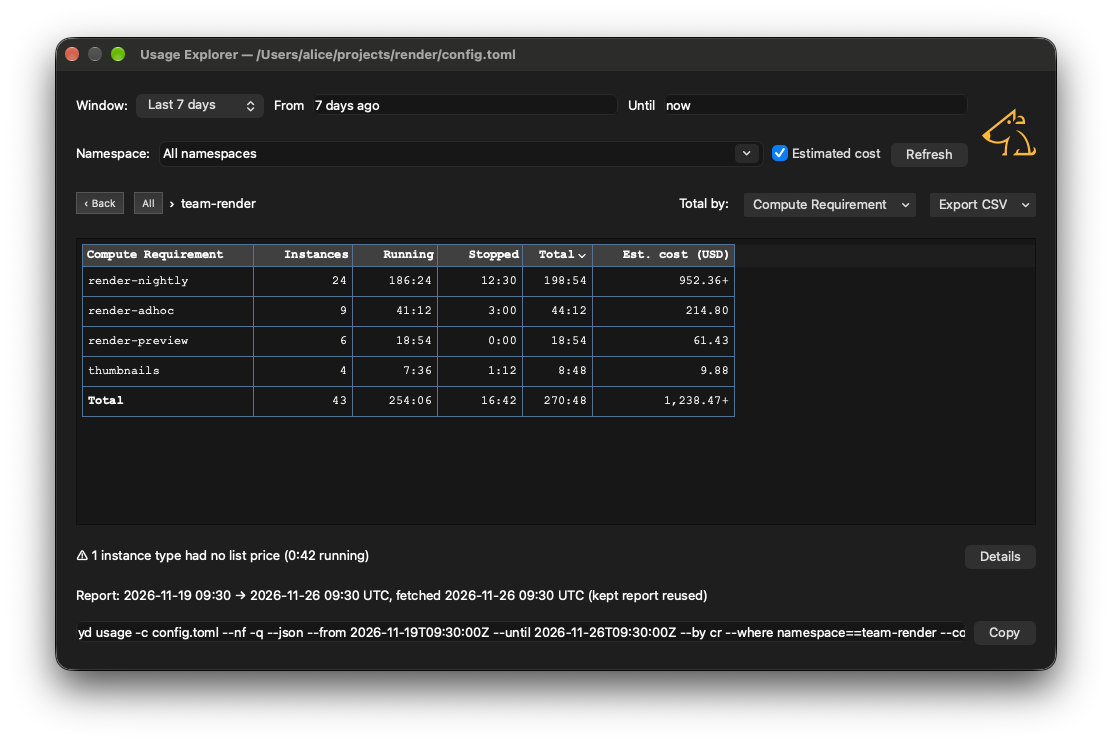
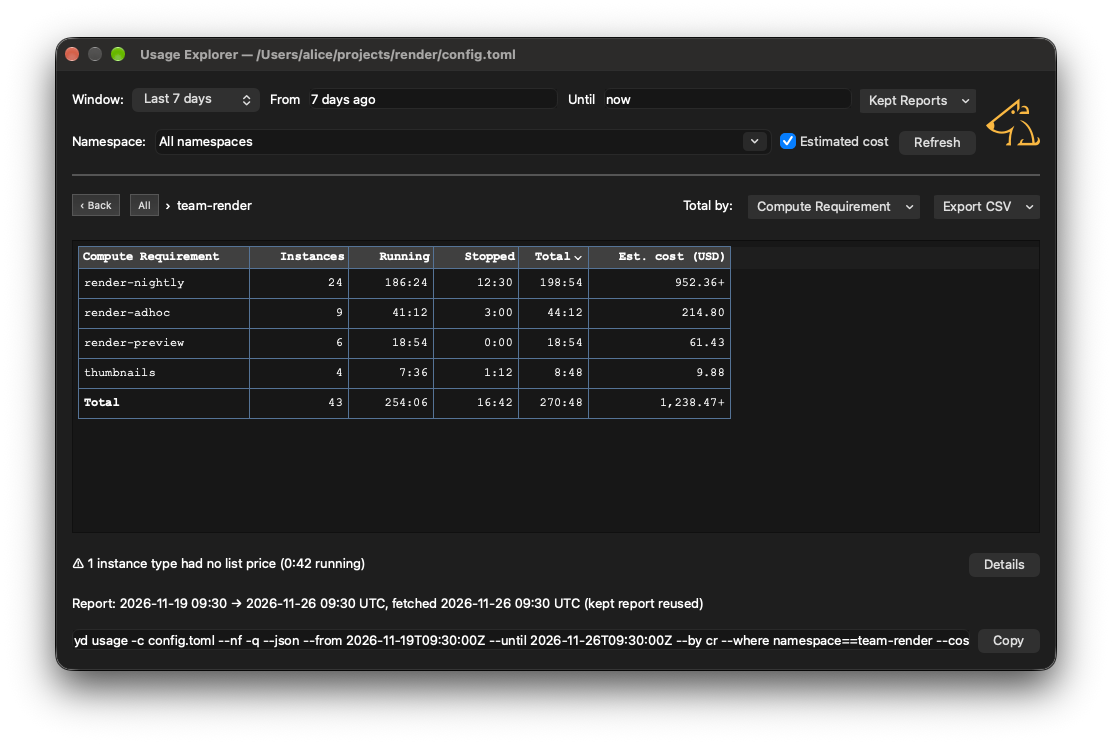
Usage Explorer: maximisable on Windows, new screenshot
- Minimise and maximise buttons on the explorer's title bar (a dialog
  on Windows has a close button alone)
- README screenshot retaken with the compact controls and Kept Reports

diff --git a/tests/test_commander_usage_explorer.py b/tests/test_commander_usage_explorer.py
@@ -1262,6 +1262,13 @@ def test_a_rule_sets_the_scope_controls_apart(explorer):
     assert explorer._separator.styleSheet() == ""
 
 
+def test_the_window_can_be_maximised_and_minimised(explorer):
+    flags = explorer.windowFlags()
+    assert flags & Qt.WindowType.WindowMaximizeButtonHint
+    assert flags & Qt.WindowType.WindowMinimizeButtonHint
+    assert flags & Qt.WindowType.WindowCloseButtonHint
+
+
 def test_the_dog_is_shown_at_the_top_right(explorer):
     branding = explorer._branding
     pixmap = branding.pixmap()

diff --git a/yellowdog_cli/commander/usage_explorer.py b/yellowdog_cli/commander/usage_explorer.py
@@ -687,6 +687,9 @@ class UsageExplorer(QDialog):
         self.setWindowTitle(title)
         self.setAttribute(Qt.WidgetAttribute.WA_DeleteOnClose)
         self.setModal(False)
+        # A dialog on Windows has a close button alone: a window of this
+        # size wants maximising and minimising as any other does
+        self.setWindowFlag(Qt.WindowType.WindowMinMaxButtonsHint)
         self._base_args = base_args
         self._working_dir = working_dir
         # The export's save dialog, Commander's own

diff --git a/.claude/rules/commander.md b/.claude/rules/commander.md
@@ -54,7 +54,7 @@ paths:
 - **Stop is one command's, without blocking; Quit's stopping is everything's, and waits.** `OutputPane` keeps each command's `QProcess` by run (`_run_processes`, from `attach()`), and the right-click menu offers `OutputRun.stop_text` for each run of the clicked line still running and not already stopping (`_stoppable_runs()`). `stop_run()` sets `OutputRun.stop_requested`, logs `Stopping <process>` as an announcement (the command's and Commander's, as the `Executing:` line is), calls `terminate()`, and queues a `kill()` for `TERMINATE_TIMEOUT_MS` later (`processes.py`, shared with Quit's `_stop_process()`); it neither waits, which would freeze the window for the grace period, nor disconnects the output handlers, as `_stop_process()` does for a teardown, so the command's last output arrives and `_record_outcome()` records `stopped` (`stop_requested` first, since a terminated process looks crashed). A non-`yd` command runs under the shell, whose children a stop does not reach; the README says so. A test's marker must not appear in the child's command line, or the echoing `Executing:` line satisfies the wait before the child has run (`tests/test_commander_stop.py` joins it at run time).
 - **A dialog list is created with a parent, or it is sized 2px short on macOS.** `_new_dialog_listing()` builds every dialog `QListWidget` as `QListWidget(self)`, although the dialog's layout reparents it straight away, because `_fit_dialog_listing_height()` fixes its height from `frameWidth()` and the macOS style reports 6 for a widget with no parent (a prospective window) against 7 once it is inside one. Built unparented, a list shows a scrollbar and clips its last row (a 58px viewport for three 20px rows). Offscreen reports 7 either way, so no test can see this; it is measured on the real platform.
 - **The Help window is the package's own `README.md`**, so the guide on GitHub and the one in the application are a single file and the latter matches the installed version; `pyproject.toml` lists it as package data for that reason, and `tests/test_commander_help.py` checks the declaration, since with `include-package-data = false` a missed file is simply absent from the wheel. `HelpDialog` (`help_viewer.py`) is modeless and the window keeps one (`_help_dialog`), raising it again so the reader keeps their place, made with no parent and closed by `shutdown()`, as the file viewers are; the Help button, F1 and the platform's `HelpContents` key all open it. Qt's Markdown importer needs four corrections, all in `build_help_document()`: headings get no anchor names, so each is given the one GitHub derives from its text (`heading_anchor()`) — which is what the README's `[...](#section)` links are written against, and a test fails if any of them has no heading to land on, so renaming a heading means fixing the links to it; fenced code blocks come out unshaded and headings with no space around them; every list item is spaced like a paragraph, which spreads the README's table of contents over two screens, so an item that is nothing but a link to a section (`section_link_item()`) is drawn tight, with a disc rather than the hollow bullet `*` gets, while prose lists keep their spacing; and a screenshot shows at natural size, cut off, so each is dropped. The table of contents is `gh-md-toc`'s, generated by `make toc_commander` with `--skip-header`, since an entry for the page's own title would push every real section down a level; like any section link, a stale entry fails the link test. The document is *set* on the browser rather than loaded, which leaves it no source for history to return to, so `setSource(QUrl("#"))` gives it one — without it Back never enables. The Help and Usage Explorer... buttons sit in the bottom row, `horizontalLayout_9`, which on macOS is 834px and so the widest row of its column, setting the window's minimum width (1206px measured as the window's minimum size hint, which `geometry` and `minimumSize`, 1206/1195, allow for); a button in the utility row would widen `horizontalLayout_4` (717px) instead, which is narrower than the bottom row.
-- **The Usage Explorer is a modeless window over `yd usage --json`, and Commander groups and adds up nothing in it.** `UsageExplorer` (`usage_explorer.py`) runs each view through `UsageRunner`, one `QProcess` per request started at once through `cli_program()` and `child_process()`, not `_capture_json_document()`, which blocks in a nested loop and drops stderr: only the latest request's result is emitted (an older run is left to finish, as it may be fetching the report the next view reuses, and its result discarded), and only `stop()` ends a run (exit code -1, `Stopped`). `usage_views.py` (Qt-free) builds the arguments (`view_args()`, `drill()`, `preset_window()`) and `usage_table.py` is the table model. A new scope is never fetched by a control: opening, `reset()` and a changed Window, From, Until or Namespace call `_await_fetch()`, which dims the table under **Fetch Report** (`_fetch_overlay`, a `_TableOverlay` as the waiting one is) while the controls name a report other than the one shown (`_pending`); its button, Cmd/Ctrl+R and **Refresh** run `_resolve()`, and `_busy` (`_resolving` or `_pending`) holds the view actions back. The window is pinned: a new scope's first run (`_resolving`) is sent as typed, and the success pins the scope to the document's own `from` and `until` (`Scope.pinned_to()`), so every later view regroups that kept report; drill-downs filter with `--where key==value`, a creator by `creator-id`. A `Level` totals by a tuple of keys (`--by a,b`) and holds the filters its drill gave it, one per key of the row drilled into (`drill()`), its crumb their values joined by `KEY_VALUE_SEPARATOR`; **Total by** is a menu of ticks over `eligible_keys()` (those no filter above fixes), `toggled_by()` adding a key after the others or removing one (never the last), the Instance level (`INSTANCE_LEVEL`) replacing the rest. While a first run is outstanding, drilling, sorting, Back, the crumbs and Total by wait; a failed or stopped one puts the controls back (`_first_run_failed()`). The base arguments (`_usage_base_args()`) are the configuration source, `--nf -q --json` and the options `yd usage` takes, less `-n` (the explorer has its own Namespace control), `-t` and `-v` (`yd usage` takes neither); its stderr lines on a success are `RunResult.warnings`, shown as notes; a Properties field that cannot be split raises `UnusableArguments`, which is that request's failure, never a silent run. It is parentless and closed by `shutdown()`, as the file viewers are, and `_follow_config_selection()` resets it for another configuration and closes it on deselection. The table's text has a size of its own: it is built from the window's unzoomed font (`_font`), at the size last left (`usageExplorer/fontSize`), and its Cmd/Ctrl+=, − and 0 zoom it alone (`_zoom()`, within `output_pane.py`'s `MIN_OUTPUT_FONT_SIZE` and `MAX_OUTPUT_FONT_SIZE`, the output window's range and default), the rows' height following it (`_fit_rows()`, the style's row height being the same for any font, so its padding is measured at the default size); `_restyle_file_viewers()` gives it the appearance alone. **Kept Reports** is filled by a third runner (`_reports_runner`, `yd usage --reports`), run with the namespace listing (on opening and `reset()`) and after each view whose report was fetched (`reused` false), and choosing one (`_use_kept_report()`) sets the controls to its window (Custom) and namespace and runs it at once (`_resolve()`: a kept report is used again, not fetched, so it waits for no Fetch Report); its runs are no views, so the tests tell them apart (`is_view()`). **Export CSV**'s menu (`_export_raw`, `_export_shown`, through `_export_csv(raw)`, and the checkable `_export_total`, `usageExplorer/exportTotal`, which drops the last row when `UsageTableModel.has_total`) writes the visible columns as `UsageTableModel.raw_rows()` (the document's figures behind each row, `_sources`: hours, the cost and its unpriced hours, the total's last) or `text_rows()` (the cells as displayed), through the explorer's own `FileDialogs.save_file()`, with `newline=""` for the `csv` module. Any figure column but the cost may be hidden from the heading's right-click menu (`HIDEABLE_COLUMNS`, `usageExplorer/hiddenColumns`, the status columns hidden by default), found by `UsageTableModel.figure_column()`, since a column's place moves with the cost and the `--by` keys. A rule (`_separator`) sets the scope controls apart from the view, painted `DARK_SEPARATOR_STYLE` in Dark Mode (`_style_separator()`), as the main window's separators are. The scope rows are each a widget of their own (`_row_of()`), set `CONTROL_ROW_SPACING` apart: a row added as a layout takes its column's spacing for the gaps between its controls, so tightening the column would crowd them. The notes beneath the table are `_Notes`, a frameless read-only `QTextEdit` rather than a label, since a label wraps only at spaces and an error's URL would widen the window: it wraps at spaces or anywhere (`WrapAtWordBoundaryOrAnywhere`) and fixes its own height to its laid-out text on every change and resize. Only a fetched report, a failure and an export are logged (`logged`), and its preferences (`usageExplorer/*`) are in `file_dialogs.dialog_settings()`, called through the module. Run on its own (`yd commander --usage-explorer`, which the launcher refuses with the main window's other options), `usage_explorer_app.StandaloneExplorer` stands in for the window: the configuration given, else `paths.default_config_file()`, else a dialog, shown in a row only it reveals (`show_configuration()`, its **Select…** the `select_configuration` signal, answered by `reset()`), the base arguments built as `_usage_base_args()` builds them from the launch's properties, `-n` through `set_namespace()`, its `logged` lines connected to nothing (a failure is said in the notes; nothing is printed to the terminal), and Dark Mode and the application set up by `commander.py`'s `initial_dark_mode()`, `apply_application_appearance()` and `make_application()`, which `run_app()` shares. `tests/test_commander_usage_views.py`, `tests/test_commander_usage_explorer.py` and `tests/test_commander_usage_explorer_app.py` hold it.
+- **The Usage Explorer is a modeless window over `yd usage --json`, and Commander groups and adds up nothing in it.** `UsageExplorer` (`usage_explorer.py`) runs each view through `UsageRunner`, one `QProcess` per request started at once through `cli_program()` and `child_process()`, not `_capture_json_document()`, which blocks in a nested loop and drops stderr: only the latest request's result is emitted (an older run is left to finish, as it may be fetching the report the next view reuses, and its result discarded), and only `stop()` ends a run (exit code -1, `Stopped`). `usage_views.py` (Qt-free) builds the arguments (`view_args()`, `drill()`, `preset_window()`) and `usage_table.py` is the table model. A new scope is never fetched by a control: opening, `reset()` and a changed Window, From, Until or Namespace call `_await_fetch()`, which dims the table under **Fetch Report** (`_fetch_overlay`, a `_TableOverlay` as the waiting one is) while the controls name a report other than the one shown (`_pending`); its button, Cmd/Ctrl+R and **Refresh** run `_resolve()`, and `_busy` (`_resolving` or `_pending`) holds the view actions back. The window is pinned: a new scope's first run (`_resolving`) is sent as typed, and the success pins the scope to the document's own `from` and `until` (`Scope.pinned_to()`), so every later view regroups that kept report; drill-downs filter with `--where key==value`, a creator by `creator-id`. A `Level` totals by a tuple of keys (`--by a,b`) and holds the filters its drill gave it, one per key of the row drilled into (`drill()`), its crumb their values joined by `KEY_VALUE_SEPARATOR`; **Total by** is a menu of ticks over `eligible_keys()` (those no filter above fixes), `toggled_by()` adding a key after the others or removing one (never the last), the Instance level (`INSTANCE_LEVEL`) replacing the rest. While a first run is outstanding, drilling, sorting, Back, the crumbs and Total by wait; a failed or stopped one puts the controls back (`_first_run_failed()`). The base arguments (`_usage_base_args()`) are the configuration source, `--nf -q --json` and the options `yd usage` takes, less `-n` (the explorer has its own Namespace control), `-t` and `-v` (`yd usage` takes neither); its stderr lines on a success are `RunResult.warnings`, shown as notes; a Properties field that cannot be split raises `UnusableArguments`, which is that request's failure, never a silent run. It is parentless and closed by `shutdown()`, as the file viewers are, and given `WindowMinMaxButtonsHint`, since a `QDialog`'s title bar on Windows has a close button alone, and `_follow_config_selection()` resets it for another configuration and closes it on deselection. The table's text has a size of its own: it is built from the window's unzoomed font (`_font`), at the size last left (`usageExplorer/fontSize`), and its Cmd/Ctrl+=, − and 0 zoom it alone (`_zoom()`, within `output_pane.py`'s `MIN_OUTPUT_FONT_SIZE` and `MAX_OUTPUT_FONT_SIZE`, the output window's range and default), the rows' height following it (`_fit_rows()`, the style's row height being the same for any font, so its padding is measured at the default size); `_restyle_file_viewers()` gives it the appearance alone. **Kept Reports** is filled by a third runner (`_reports_runner`, `yd usage --reports`), run with the namespace listing (on opening and `reset()`) and after each view whose report was fetched (`reused` false), and choosing one (`_use_kept_report()`) sets the controls to its window (Custom) and namespace and runs it at once (`_resolve()`: a kept report is used again, not fetched, so it waits for no Fetch Report); its runs are no views, so the tests tell them apart (`is_view()`). **Export CSV**'s menu (`_export_raw`, `_export_shown`, through `_export_csv(raw)`, and the checkable `_export_total`, `usageExplorer/exportTotal`, which drops the last row when `UsageTableModel.has_total`) writes the visible columns as `UsageTableModel.raw_rows()` (the document's figures behind each row, `_sources`: hours, the cost and its unpriced hours, the total's last) or `text_rows()` (the cells as displayed), through the explorer's own `FileDialogs.save_file()`, with `newline=""` for the `csv` module. Any figure column but the cost may be hidden from the heading's right-click menu (`HIDEABLE_COLUMNS`, `usageExplorer/hiddenColumns`, the status columns hidden by default), found by `UsageTableModel.figure_column()`, since a column's place moves with the cost and the `--by` keys. A rule (`_separator`) sets the scope controls apart from the view, painted `DARK_SEPARATOR_STYLE` in Dark Mode (`_style_separator()`), as the main window's separators are. The scope rows are each a widget of their own (`_row_of()`), set `CONTROL_ROW_SPACING` apart: a row added as a layout takes its column's spacing for the gaps between its controls, so tightening the column would crowd them. The notes beneath the table are `_Notes`, a frameless read-only `QTextEdit` rather than a label, since a label wraps only at spaces and an error's URL would widen the window: it wraps at spaces or anywhere (`WrapAtWordBoundaryOrAnywhere`) and fixes its own height to its laid-out text on every change and resize. Only a fetched report, a failure and an export are logged (`logged`), and its preferences (`usageExplorer/*`) are in `file_dialogs.dialog_settings()`, called through the module. Run on its own (`yd commander --usage-explorer`, which the launcher refuses with the main window's other options), `usage_explorer_app.StandaloneExplorer` stands in for the window: the configuration given, else `paths.default_config_file()`, else a dialog, shown in a row only it reveals (`show_configuration()`, its **Select…** the `select_configuration` signal, answered by `reset()`), the base arguments built as `_usage_base_args()` builds them from the launch's properties, `-n` through `set_namespace()`, its `logged` lines connected to nothing (a failure is said in the notes; nothing is printed to the terminal), and Dark Mode and the application set up by `commander.py`'s `initial_dark_mode()`, `apply_application_appearance()` and `make_application()`, which `run_app()` shares. `tests/test_commander_usage_views.py`, `tests/test_commander_usage_explorer.py` and `tests/test_commander_usage_explorer_app.py` hold it.
 - **`_notify()` is the modal notice**: it logs the message and then shows it, so the output window keeps the whole narrative either way, and it degrades to log-only when `--yes` is set (nobody is there to press OK) or while shutting down. `_build_notice_dialog()` is split out so a test can arm the real dialog rather than stub `exec()`, and it forces `PlainText` — a notice carries Windows paths and entity names, which as rich text lose their backslashes and their angle-bracketed parts. It has one caller, deliberately: Browse Results Directory with no results directory yet. The other dead-end notices remain log-only, and `tests/test_commander_notices.py` holds that line.
 - **An exception escaping a slot aborts the application** (PyQt6 turns it into `qFatal`), so a slot reading a file the user chose reads it through `_display_file()` (or catches `OSError` and `UnicodeDecodeError` itself) and logs why it could not.
 - **Nothing acts once the window is closing.** A listing the close cuts short returns `None`, which reads as a listing that failed, whose fallback is to act on the whole scope; so `_confirm_destructive` refuses (`proceed=False`, before the `--yes` shortcut) and `_run_command_in_subprocess` starts nothing while `_shutting_down`, which covers every action rather than each caller checking after its listing.

diff --git a/CHANGELOG.md b/CHANGELOG.md
@@ -4,6 +4,10 @@ The user-visible changes in each release of the YellowDog CLI, the newest first.
 
 ## Unreleased
 
+### Commander
+
+- **The Usage Explorer can be maximised and minimised on Windows**, whose title bar showed a close button alone.
+
 ## 15.21.0 — 2026-11-26
 
 ### Upgrading
